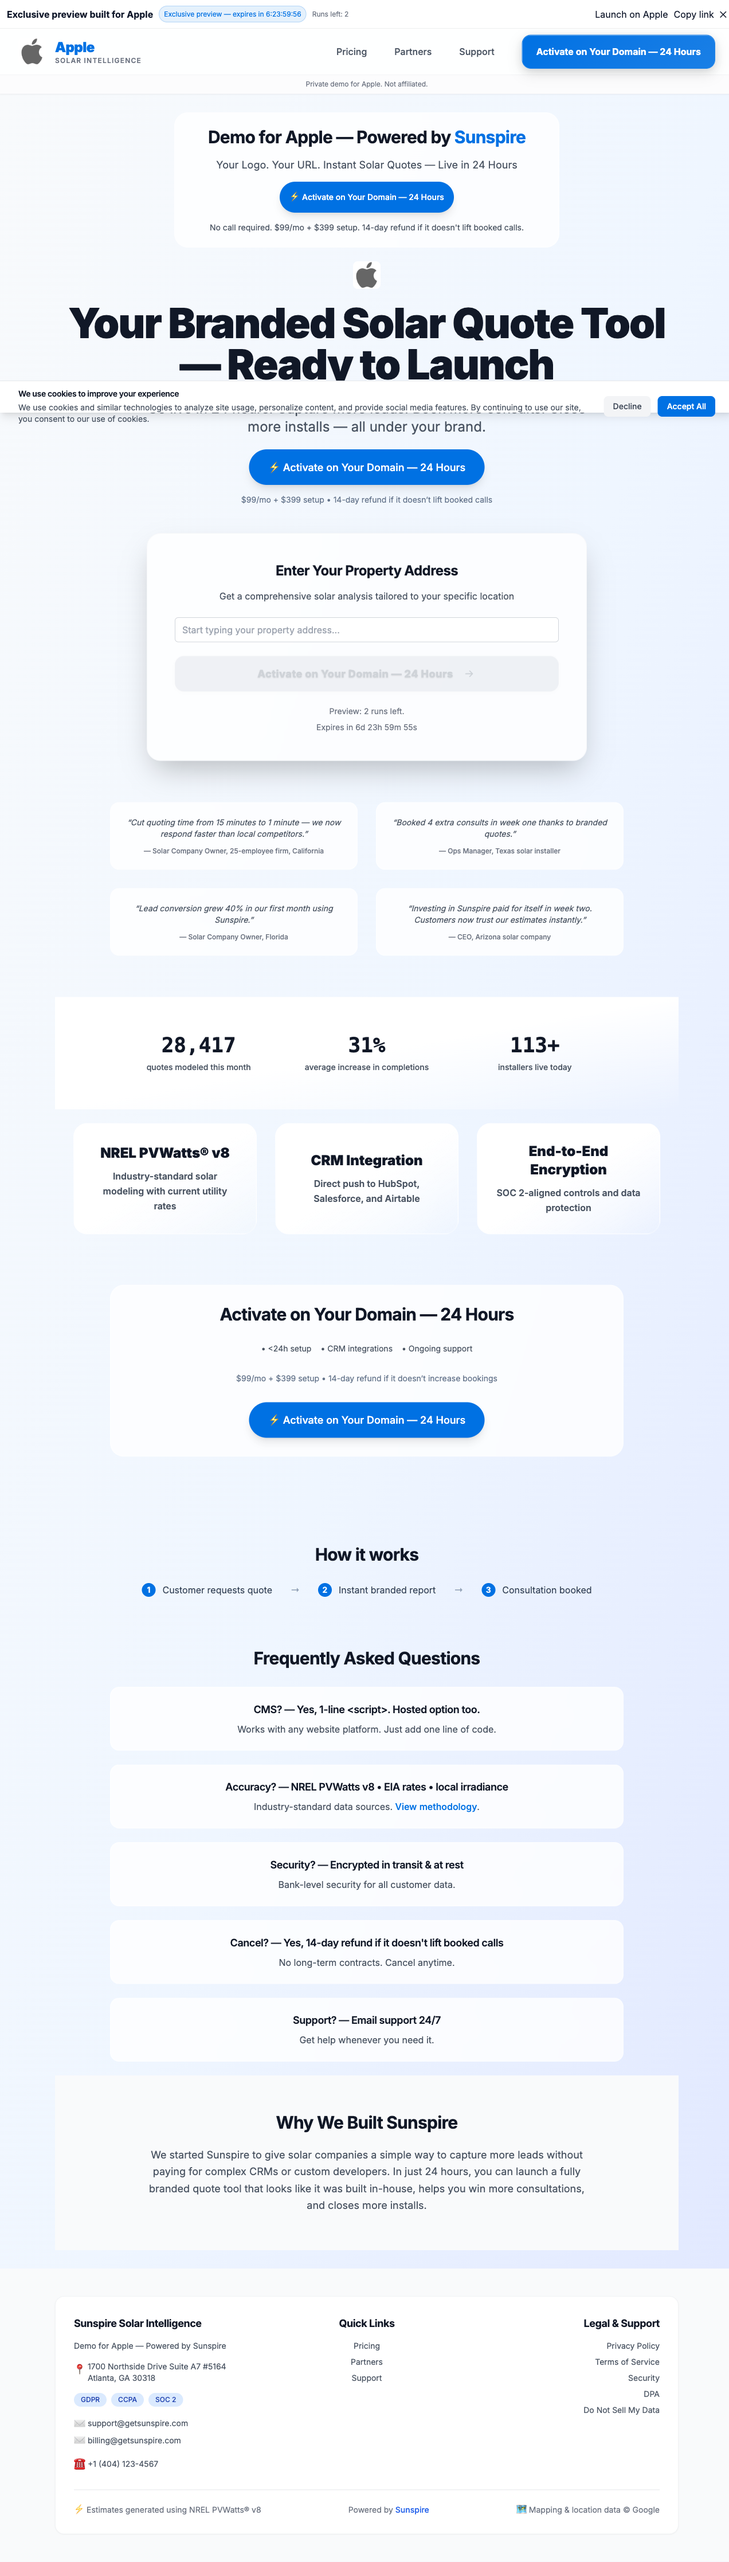
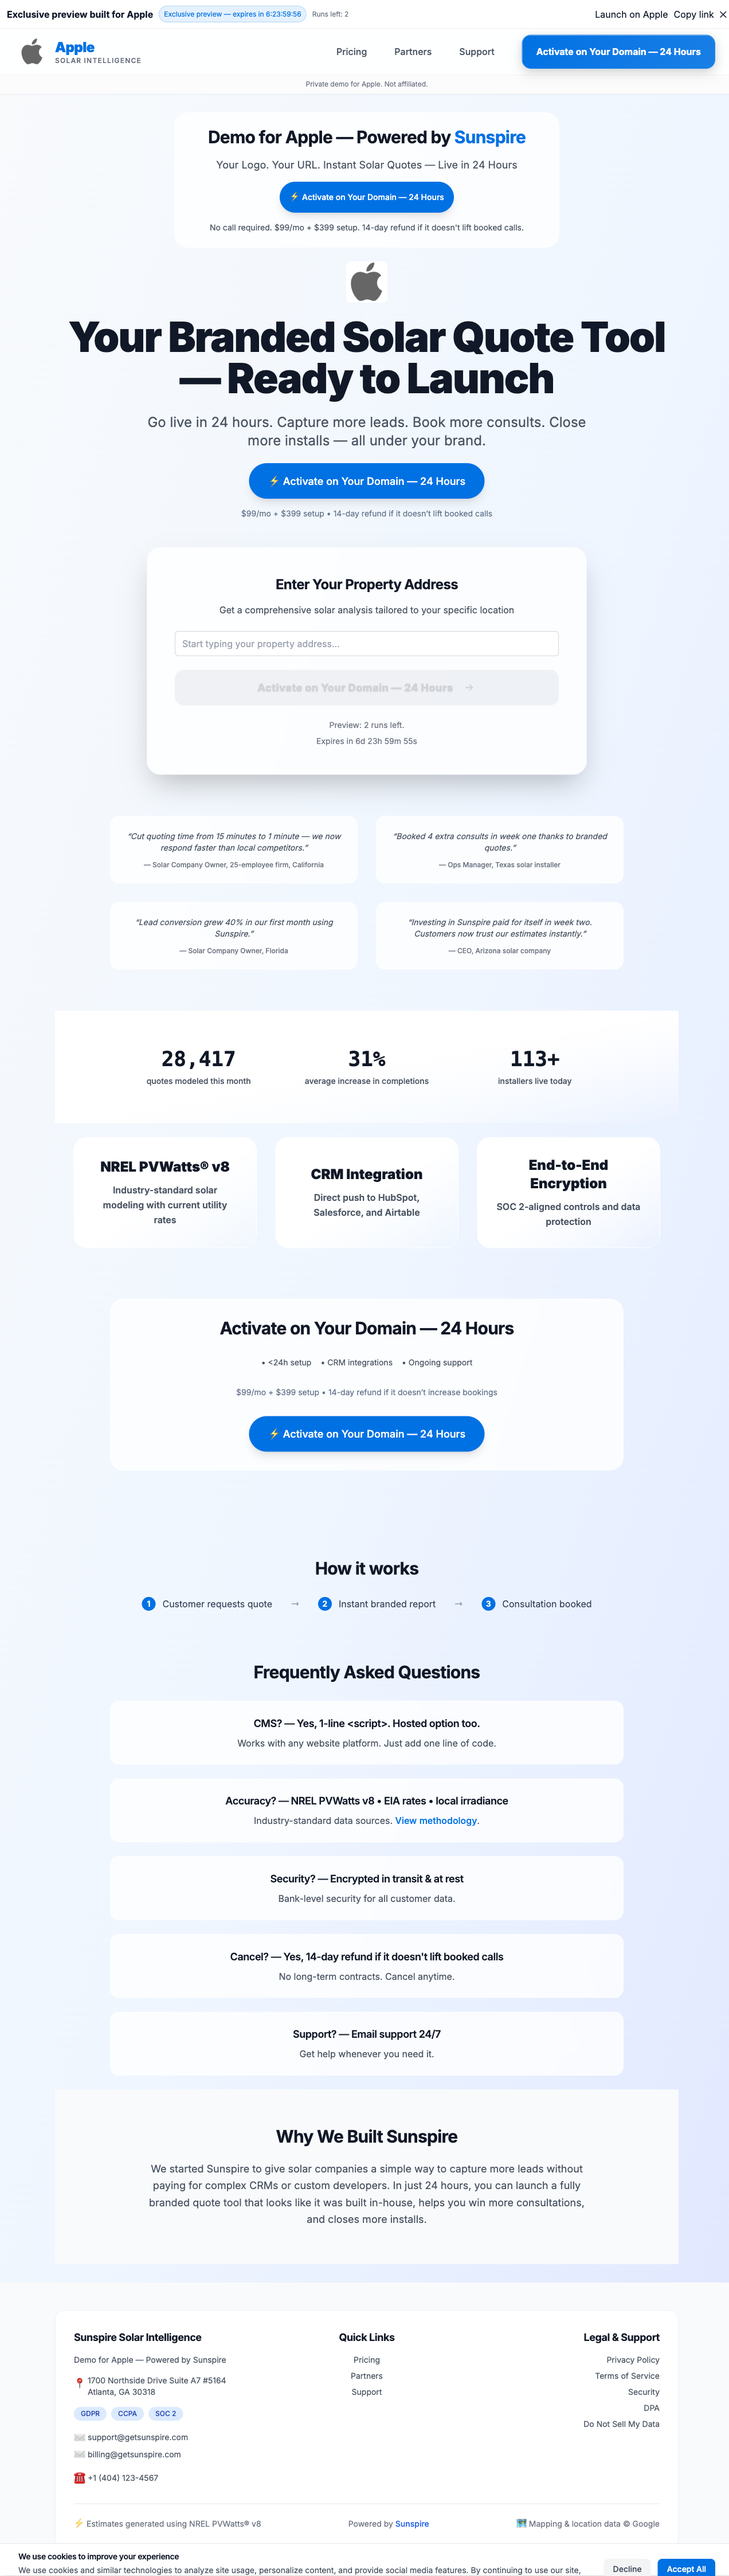
Enhance KPI band gradient visibility with stronger company color shading and overlay

diff --git a/app/page.tsx b/app/page.tsx
@@ -464,8 +464,9 @@ function HomeContent() {
           </div>
 
           {/* KPI Band - Single band only */}
-          <div className="py-16 bg-gradient-to-br from-white via-white to-[var(--brand-primary)]/15">
-            <div className="max-w-4xl mx-auto px-4 sm:px-6 lg:px-8">
+          <div className="py-16 bg-gradient-to-br from-white via-white to-[var(--brand-primary)]/25 relative">
+            <div className="absolute inset-0 bg-gradient-to-br from-transparent via-white/40 to-[var(--brand-primary)]/25 opacity-100"></div>
+            <div className="max-w-4xl mx-auto px-4 sm:px-6 lg:px-8 relative z-10">
               <div className="grid grid-cols-3 gap-12 text-center">
                 <div className="group">
                   <div className="text-4xl font-black text-gray-900 font-mono group-hover:text-[var(--brand-primary)] transition-colors duration-300">28,417</div>
